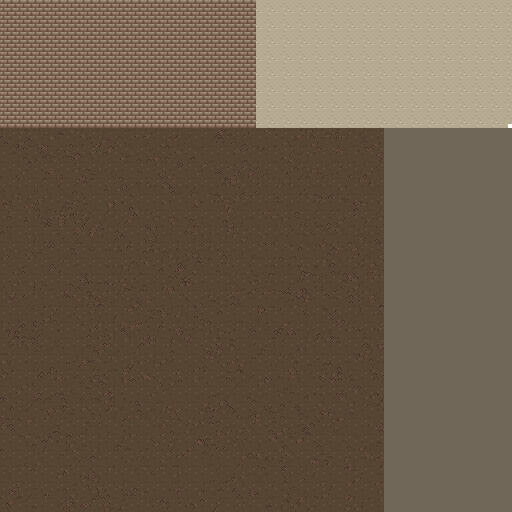
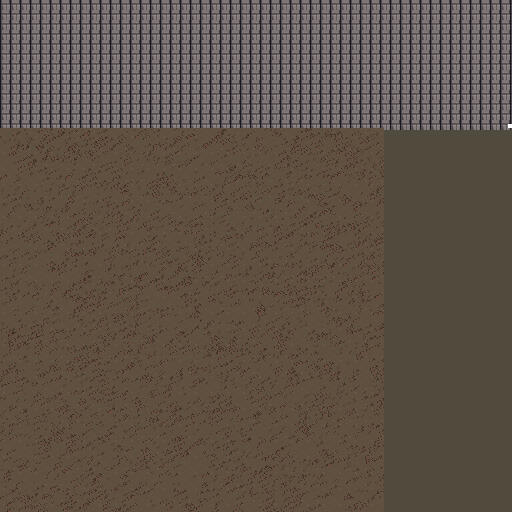
Match wreck footings and rubble to Foundation trace art

diff --git a/src/building_lowpoly.js b/src/building_lowpoly.js
@@ -524,11 +524,11 @@
       // Stable identity seeds the broad breaches and scattered masonry.
       const seed=Array.from(String(identity||points.map(p=>p.x+','+p.y).join(';'))).reduce((n,c)=>Math.imul(n^c.charCodeAt(0),16777619),2166136261)>>>0;
       const random=(n,salt)=>hash(seed+n,salt);
-      const H=8,SECTION=11,base=geometry(points,'ridge',H,0),faces=[],W=wreckLook(recipe);
+      const H=2,SECTION=7,base=geometry(points,'ridge',H,0),faces=[],W=wreckLook(recipe);
       const xs2=points.map(p=>p.x),ys=points.map(p=>p.y),[xlo,xhi,ylo,yhi]=[Math.min(...xs2),Math.max(...xs2),Math.min(...ys),Math.max(...ys)];
       // Narrow annexes may reject a thick inset. Keep damage and doorway cuts
       // even when only a thin (or zero-thickness) wall strip can fit.
-      const ring=base.ring,inner=(typeof BuildingStyles!=='undefined'&&(BuildingStyles.inset(ring,6)||BuildingStyles.inset(ring,2)||BuildingStyles.inset(ring,.5)))||ring;
+      const ring=base.ring,inner=(typeof BuildingStyles!=='undefined'&&(BuildingStyles.inset(ring,3)||BuildingStyles.inset(ring,1)||BuildingStyles.inset(ring,.5)))||ring;
       let piece=null;const pieces=[];
       const tri=(pts,kind,extra)=>{faces.push({points:pts,kind,light:1,layer:0,piece,...extra});return faces.at(-1);};
       const quad=(a,b,c,d,kind,extra)=>{tri([a,b,c],kind,extra);tri([a,c,d],kind,extra);};
@@ -550,8 +550,8 @@
             return {x:ai.x+dx*u,y:ai.y+dy*u};
           };
           for(let k=0;k<count;k++){const t0=k/count,t1=(k+1)/count;
-            // Four low bays survive in each nine-bay run.
-            parts.push({edge:i,len,dir,t0,t1,h:((k+Math.floor(random(i,19)*9))%9<4?[4,7,8,4][(k+Math.floor(random(i,19)*9))%9]:0),o0:{x:a.x+dir.x*t0,y:a.y+dir.y*t0},o1:{x:a.x+dir.x*t1,y:a.y+dir.y*t1},i0:innerAt(t0),i1:innerAt(t1)});}});
+            // Two shallow footing stones survive in each nine-bay run.
+            parts.push({edge:i,len,dir,t0,t1,h:((k+Math.floor(random(i,19)*9))%9<2?[1,2][(k+Math.floor(random(i,19)*9))%9]:0),o0:{x:a.x+dir.x*t0,y:a.y+dir.y*t0},o1:{x:a.x+dir.x*t1,y:a.y+dir.y*t1},i0:innerAt(t0),i1:innerAt(t1)});}});
         const longest=parts.reduce((a,b)=>b.len>a.len?b:a).edge,span=parts.filter(p=>p.edge===longest);
         const start=Math.max(0,Math.floor(span.length/2)-1),gone=span[start],last=span[Math.min(start+1,span.length-1)];
         gone.h=0;last.h=0;gap={o0:gone.o0,o1:last.o1,i0:gone.i0,i1:last.i1};
@@ -574,7 +574,7 @@
             return {x:p.i0.x+dx*u,y:p.i0.y+dy*u};};
           return [0,1,2].map(j=>({...p,t0:p.t0+(p.t1-p.t0)*j/3,t1:p.t0+(p.t1-p.t0)*(j+1)/3,
             o0:outer(j/3),o1:outer((j+1)/3),i0:innerAt(j/3),i1:innerAt((j+1)/3),
-            h:Math.min(H,Math.max(1,p.h+(random(k*3+j,73)-.5)*1.6)),localBreak:true}));
+            h:Math.min(H,Math.max(1,p.h+(random(k*3+j,73)-.5)*.5)),localBreak:true}));
         });
         for(const p of parts)p.gone=p.h<.5;
         parts.forEach((p,k)=>{const {dir,len,t0,t1,h,o0,o1,i0,i1}=p;
@@ -607,7 +607,7 @@
       // sides. Several spill out through the gap; the rest lie inside along the
       // walls. The same building seed keeps rubble consistent with its damage.
       const chunk=(k,x,y)=>{piece=pieces.length;pieces.push({a:{x:x-2,y},b:{x:x+2,y}});const n=hash(seed+k,29),m=hash(seed+k,31),a=n*Math.PI,dx=Math.cos(a),dy=Math.sin(a);
-        const L=(3+3.5*m)/2,w=(2.2+2*n)/2,h=1.6+2.2*hash(seed+k,37);
+        const L=(3+2*m)/2,w=(2+1.2*n)/2,h=.6+1.2*hash(seed+k,37);
         const base=[{x:x-dx*L+dy*w,y:y-dy*L-dx*w},{x:x+dx*L+dy*w,y:y+dy*L-dx*w},{x:x+dx*L-dy*w,y:y+dy*L+dx*w},{x:x-dx*L-dy*w,y:y-dy*L+dx*w}];
         const ccw=cross(base[0],base[1],base[2])>0,ring=ccw?base:[...base].reverse();
         ring.forEach((p,i)=>{const q=ring[(i+1)%4],e=[{...p,z:0},{...q,z:0},{...q,z:h},{...p,z:h}].map((v,j)=>({...v,u:8+(j===1||j===2?Math.hypot(q.x-p.x,q.y-p.y):0),v:16-v.z}));

diff --git a/test/node/building_lowpoly_scene.test.js b/test/node/building_lowpoly_scene.test.js
@@ -229,7 +229,7 @@
     const mesh=BuildingLowPoly.add(scene,FOOT,recipe,'ridge','wreck');
     assert.truthy(mesh.faces.length,'rubble material remains');
     const top=Math.max(...mesh.faces.flatMap(f=>f.points.map(p=>p.z)));
-    assert.inRange(top,1,8,'every wall and rubble piece stays within the low plinth height');
+    assert.inRange(top,1,2,'every wall and rubble piece stays within the low plinth height');
     assert.falsy(mesh.faces.some(f=>f.standingRoof||f.fallenRoof||f.rafter||f.beam||f.steel),'no roof or metal framing remains');
     assert.truthy(new Set(mesh.faces.filter(f=>f.wallTop).map(f=>f.points[0].z.toFixed(1))).size>1,'stub heights vary');
     const pieces=BuildingLowPoly.worldPieces(scene);
@@ -262,7 +262,7 @@
     const mesh=BuildingLowPoly.add(scene,FOOT,recipe,'ridge','wreck-rubble');
     const lids=mesh.faces.filter(f=>f.rubbleTop);
     assert.gte(lids.length/2,3,'a few chunks of wall lie about: '+lids.length/2);
-    assert.truthy(lids.every(f=>f.points.every(p=>p.z>1&&p.z<4)),'chunks are low blocks');
+    assert.truthy(lids.every(f=>f.points.every(p=>p.z>0&&p.z<2)),'chunks are shallow stone fragments');
     assert.truthy(mesh.faces.filter(f=>f.rubble).every(f=>Math.min(...f.points.map(p=>p.z))>=0),'chunks rest on the ground');
     // The cel pass's darkest step is light < .65: the floor and inner walls stay above it.
     for(const f of mesh.faces.filter(f=>f.debris||f.interior))assert.gte(f.light,.65,'interior faces take the middle cel step');
@@ -317,7 +317,7 @@
         width+'x'+height+' has no surviving roof structure');
       assert.truthy(mesh.faces.some(f=>f.wallTop),'broken walls still remain');
       assert.truthy(mesh.faces.some(f=>f.debris),'the rubble floor still remains');
-      assert.truthy(mesh.faces.every(f=>f.points.every(p=>p.z>=0&&p.z<=8)),'the whole wreck stays below eight pixels');
+      assert.truthy(mesh.faces.every(f=>f.points.every(p=>p.z>=0&&p.z<=2)),'the whole wreck stays below two pixels');
     }
   }));
   test('low-poly fade: translucent buildings omit filled outline passes that hide the player', () => withPhaser(() => {

diff --git a/tools/build_wreck_plinth.py b/tools/build_wreck_plinth.py
@@ -1,40 +1,36 @@
 #!/usr/bin/env python3
-"""Build the shared broken-plinth atlas from native game and extra-asset tiles."""
+"""Build the Foundation trace atlas from the art preview's native source tiles."""
 from pathlib import Path
 from PIL import Image, ImageDraw
 import random
 
 ROOT = Path(__file__).resolve().parents[1]
 OUT = ROOT / 'assets/Objects/BuildingMaterials/wreck-plinth.png'
-wall = Image.open(ROOT / 'assets/Objects/Castle/FDR/atlas.png').convert('RGBA').crop((392, 8, 504, 120)).resize((16, 16), Image.Resampling.NEAREST)
+village = Image.open(ROOT / 'extra_assets/themed-tilesets/Ruined Medieval Village/tile-B-03.png').convert('RGBA')
 cavern = Image.open(ROOT / 'extra_assets/16x16/Rogue Adventure World/Rogue Adventure World [Sprites]/Tilesets/RA_Cavern_Full.png').convert('RGBA')
+stone = village.crop((16, 18, 32, 28)).resize((10, 10), Image.Resampling.NEAREST)
 dirt = cavern.crop((224, 16, 240, 32))
 grit = cavern.crop((272, 16, 288, 32))
-atlas = Image.new('RGBA', (512, 512), '#706758')
-for y in range(0, 128, 16):
-    for x in range(0, 256, 16):
-        atlas.paste(wall, (x, y))
-cap = Image.new('RGBA', (16, 16), '#b6aa93')
-rng = random.Random(223)
-draw = ImageDraw.Draw(cap)
-for i in range(17):
-    x, y = rng.randrange(16), rng.randrange(16)
-    draw.rectangle((x, y, x + i % 2, y), fill='#a99d86' if i % 3 else '#c8bca5')
-for y in range(0, 128, 16):
-    for x in range(256, 512, 16):
-        atlas.paste(cap, (x, y))
-# Sparse, small source-pixel chips over fine ground; no large painted timbers.
-floor = Image.new('RGBA', (384, 384), '#706758')
+atlas = Image.new('RGBA', (512, 512), '#504b3d')
+# Both caps and sides use the same weathered source stone as the preview.
+for y in range(0, 128, 10):
+    for x in range(0, 512, 10):
+        atlas.alpha_composite(stone, (x, y))
+# Ground stays flat; fine native chips carry the rubble detail.
+floor = Image.new('RGBA', (384, 384), '#71695a')
 for y in range(0, 384, 16):
     for x in range(0, 384, 16):
-        floor.alpha_composite(dirt, (x, y))
-floor = Image.blend(floor, Image.new('RGBA', floor.size, '#777263'), .18)
+        tile = dirt.copy()
+        tile.putalpha(tile.getchannel('A').point(lambda a: round(a * .75)))
+        floor.alpha_composite(tile, (x, y))
+floor = Image.alpha_composite(floor, Image.new('RGBA', floor.size, (119, 114, 99, 53)))
 rng = random.Random(126)
-for _ in range(1700):
+for _ in range(3200):
+    x, y = rng.randrange(384), rng.randrange(384)
     size = rng.randrange(4, 8)
-    chip = grit.resize((size, max(3, size * 4 // 5)), Image.Resampling.NEAREST)
+    chip = grit.resize((size, max(3, round(size * .8))), Image.Resampling.NEAREST)
     chip.putalpha(chip.getchannel('A').point(lambda a: round(a * .72)))
-    floor.alpha_composite(chip, (rng.randrange(384), rng.randrange(384)))
+    floor.alpha_composite(chip, (x, y))
 atlas.paste(floor, (0, 128))
 ImageDraw.Draw(atlas).rectangle((508, 124, 511, 127), fill='white')
 atlas.save(OUT)

diff --git a/docs/art/lowpoly-building-styles.md b/docs/art/lowpoly-building-styles.md
@@ -163,18 +163,19 @@ These settings do not stretch or add floors to the reviewed exterior models.
 
 ## Wrecks
 
-Wrecks use the Broken plinth design: a sparse perimeter of 4–8-unit masonry
-courses with broad breaches, chipped height steps and roughly six-unit thickness
-where the footprint allows it. A few fallen blocks stand 2–4 units high. Roofs,
-rafters and leaning panels are absent. Every height step has an outward-facing
-end cap. Arbitrary concave footprints retain their exact ground area.
+Wrecks follow the Foundation trace art preview: sparse 1–2-unit stone
+footings, about three units thick, with two surviving bays in each nine-bay
+run. Small fallen fragments stay below two units. Roofs, rafters and leaning
+panels are absent. Every height step has an outward-facing end cap. Arbitrary
+concave footprints retain their exact ground area.
 
-`tools/build_wreck_plinth.py` builds `wreck-plinth.png` from the FDR wall atlas
-(slot 3, reduced back to native 16-pixel scale) and the Rogue Adventure Cavern
-fine dirt and grit tiles at (224,16) and (272,16). Pale caps use sparse pixel
-grain. The shared 512px atlas holds side masonry in its upper-left quarter,
-caps in the upper-right, and flat rubble below y=128. No per-building material
-is generated. Rogue/Dreamland retain their prepared profile palette variants.
+`tools/build_wreck_plinth.py` builds `wreck-plinth.png` from the preview's
+Ruined Medieval Village B03 stone crop (16,18,16,10) and Rogue Adventure
+Cavern dirt and grit tiles at (224,16) and (272,16). Caps and sides share the
+weathered stone pixels; fine source chips cover the flat earth. The shared
+512px atlas holds side masonry in its upper-left quarter, caps in the
+upper-right, and flat rubble below y=128. No per-building material is
+generated. Rogue/Dreamland retain their prepared profile palette variants.
 The floor sorts below actors; individual raised sections sort at their wall
 baselines. Breaches, doorway clearance and scattered blocks use stable IDs.
 

diff --git a/docs/design/rendering.md b/docs/design/rendering.md
@@ -386,10 +386,11 @@ opacity immediately on leaving. Faded low-poly buildings skip the filled ink
 outline passes so overlapping ink cannot obscure the player through the fade.
 They update opacity without rebuilding geometry
 or reading pixels. Home keeps its separate indoor roof-cutaway behavior.
-Wrecks are broken plinths: sparse 4–8-unit masonry courses, broad breaches,
-stepped tops, and a few 2–4-unit fallen blocks. There are no roofs or raised
-framing. The native pixel wall texture matches the FDR system walls; pale caps
-and fine Rogue Adventure rubble share one prebuilt atlas. The flat floor follows
+Wrecks follow the Foundation trace preview: sparse 1–2-unit stone footings,
+broad breaches, stepped tops, and a few low fallen fragments. About a quarter
+of the perimeter survives, with three-unit thickness. There are no roofs or
+raised framing. Native Ruined Medieval Village stone and fine Rogue Adventure
+rubble share one prebuilt atlas. The flat floor follows
 the exact triangulated footprint and sorts as a ground decal beneath the player.
 Each raised section sorts independently at its baseline, so the player can walk
 between near and far remains. Surface player movement already permits wrecks.
